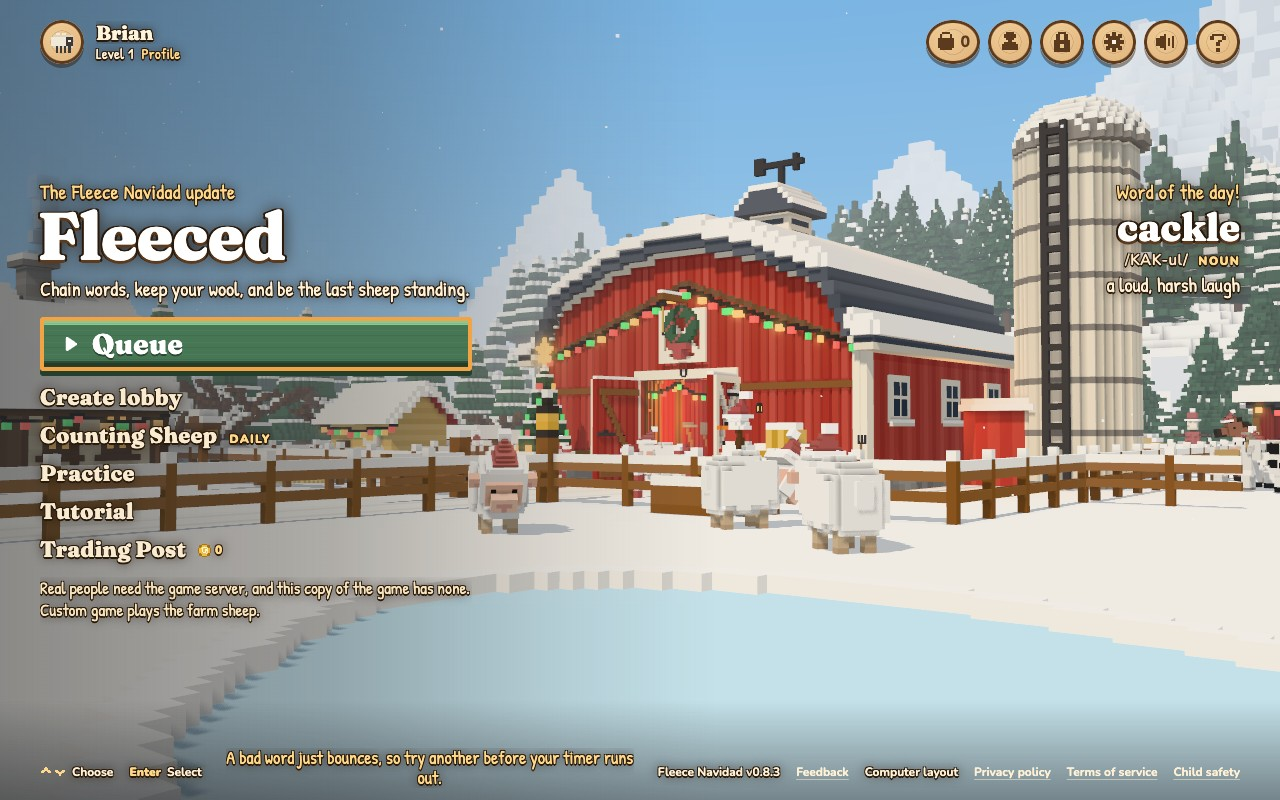
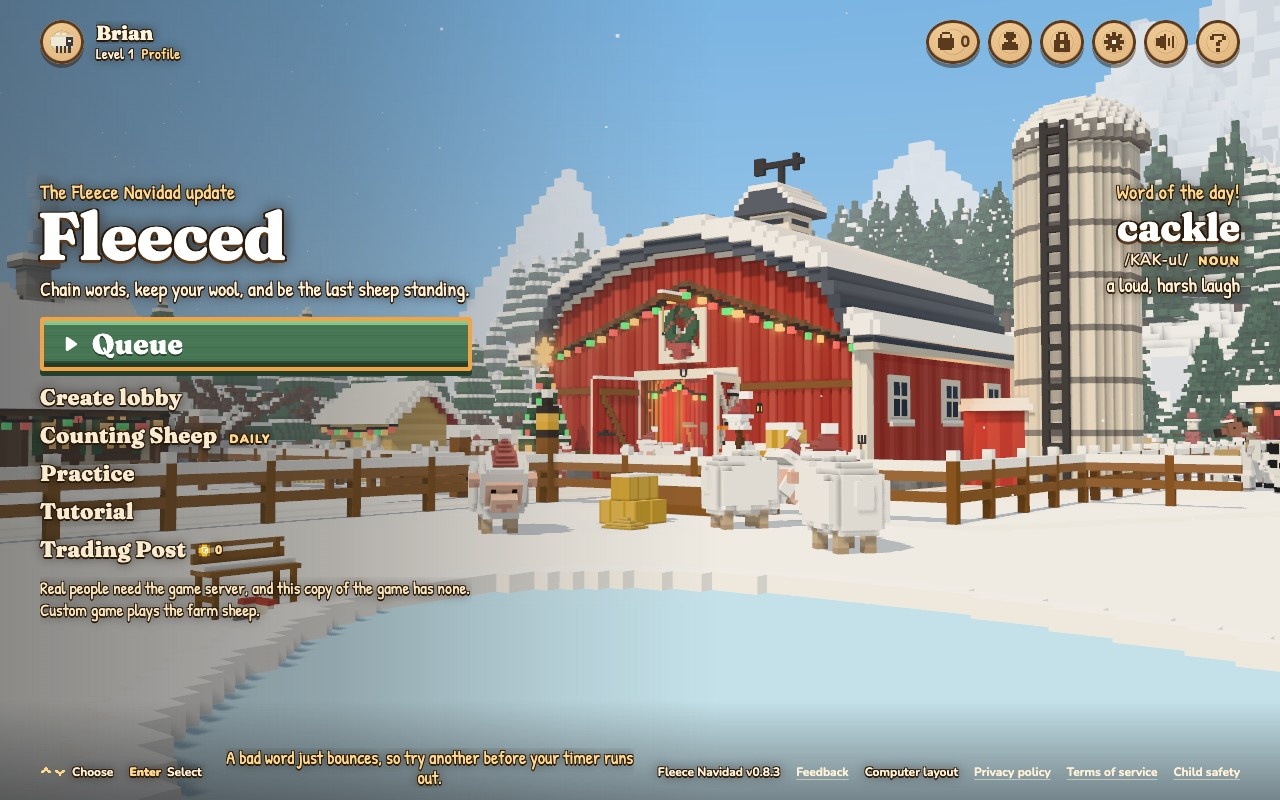
Miniature M5: the pond, porch and flock clusters, and the east track
All eight micro clusters stand (17,718 triangles). The east track runs from the
paddock's gate round the court's corner to the pasture's trough: the plan's line
crossed the court's fence of 0.8.3. Where each object moved and why:
docs/miniature/review/M5-yard.md.

Not done: the plan's recolour of the land's trees, scrub and wall in front of the
line. It changes fine.countryside.hash, which the wendigo's frozen pins hold; it
was built, failed the wendigo check, and was undone.

Ten checks: all pass; check 7 after the porch lantern was hung on the post's face.
Wendigo as pinned; nothing new floats; no magenta on shots 1, 7 or phone 5.

Claude-Session: https://claude.ai/code/session_011o9Mj2AM167Xh2M6L4JoHP

diff --git a/src/skin/scene/farmMicro.ts b/src/skin/scene/farmMicro.ts
@@ -103,6 +103,35 @@ export const MICRO_PLACEMENTS: Placement[] = [
     ['strapHinge', -1.20, 0.85, 15.05, 3],
     ['latch', -1.20, 0.90, 17.75, 3],
   ]),
+  // `pondSide` (M5): the bench and the skates on the pond's west bank. The pond stands 8 m east and 5 m south of where
+  // it was and is wider; moved with it the bench stood on the ice, so it stands 1.6 m further west, on the bank.
+  ...cluster('pondSide', [
+    ['bench', 10.50, GROUND, 28.60, 1, { snow: true }],
+    ['skates', 11.00, GROUND, 29.20],
+  ]),
+  // `porch` (M5): the farmhouse, whose front has faced east under a porch since 0.8.3, with four windows. A pair of
+  // shutters a window (eight), as tall as the frames (1.8 m), their backs on the wall (x -15.0); the knob where the
+  // door's 0.2 m cube was; the lantern on the porch post north of the steps (every strip of wall by the door holds a
+  // shutter); the crate of carrots in the porch's north corner. There has been no woodpile since 0.8.3: the chopping
+  // block and the split logs stand before the woodshed on the kitchen end, and the broom leans by the kitchen door
+  // (no strip of the front wall is as wide as a broom).
+  ...cluster('porch', [
+    ...[17.4, 19.2, 22.2, 24.0].flatMap((z): Row[] => [['shutter', -15.00, 1.00, z - 0.30, 3, { h: 36 }], ['shutter', -15.00, 1.00, z + 1.00, 3, { h: 36 }]]),
+    ['knob', -15.00, 1.45, 21.45, 3],
+    ['wallLantern', -13.40, 2.00, 19.80, 3],
+    ['crateOpen', -14.80, 0.40, 17.05, 0, { contents: 'carrots' }],
+    ['choppingBlock', -20.40, GROUND, 14.20],
+    ['splitLogs', -19.70, GROUND, 14.20],
+    ['broom', -17.85, GROUND, 16.30, 2],
+  ]),
+  // `flockSpot` (M5): the flock's bales and hay, moved with the three loose sheep (+33, -1), who stand in the pasture
+  // by the trough now.
+  ...cluster('flockSpot', [
+    ['squareBale', 6.70, GROUND, 18.20],
+    ['squareBale', 6.70, GROUND, 18.70],
+    ['squareBale', 6.95, 0.45, 18.20, 1, { snow: true }],
+    ['hayHeap', 7.40, GROUND, 19.40],
+  ]),
 ];
 
 // ---- the rules a place must keep (docs/miniature/05, sections 1.3 and 7)

diff --git a/src/skin/scene/yard.ts b/src/skin/scene/yard.ts
@@ -41,9 +41,14 @@ const HALF = YARD.path.halfWidth, FENCE = YARD.fence, HOME = YARD.farmhouse;
 const PORCH_X = HOME.x + HOME.halfX + HOME.porch, LANE_FADE = 39;
 /**
  * Footpaths, each worn straight from one door to the next ([x0, z0, x1, z1]): the porch steps to the court's gate, the
- * barn's doors to the hens' gate.
+ * barn's doors to the hens' gate, and (the plan's east track, docs/miniature/05, section 3) the animals' own way from
+ * the paddock's gate round the court's corner post to the pasture's trough. The plan ran that track from the lane
+ * across the court; since 0.8.3 the court's fence stands across that line (x 12), so it keeps to the pasture's side.
  */
-const WALKS = [[PORCH_X + 0.5, HOME.z, -HALF, FENCE.z + 2.4], [-HALF, 10.6, FENCE.minX, 10.6]] as const;
+const WALKS = [
+  [PORCH_X + 0.5, HOME.z, -HALF, FENCE.z + 2.4], [-HALF, 10.6, FENCE.minX, 10.6],
+  [16.8, 7.5, FENCE.maxX + 0.9, FENCE.z + 0.7], [FENCE.maxX + 0.9, FENCE.z + 0.7, 8.6, FENCE.z + 1.0],
+] as const;
 export const onWalk = (x: number, z: number) => WALKS.some(([x0, z0, x1, z1]) => {
   const dx = x1 - x0, dz = z1 - z0, t = Math.min(1, Math.max(0, ((x - x0) * dx + (z - z0) * dz) / (dx * dx + dz * dz)));
   return Math.hypot(x - x0 - dx * t, z - z0 - dz * t) < 0.45;

diff --git a/docs/miniature/review/M5-yard.md b/docs/miniature/review/M5-yard.md
@@ -1,0 +1,50 @@
+# M5: the yard's last clusters, the east track, and the country in front of the line
+
+Branch `miniature/m5-yard`, on top of M4 (`1219735`). Plan file 05, sections 3, 8.6 to 8.8 and 9. All eight clusters
+now stand: 17,718 triangles in the whole layer (budget 120,000), built in 117 ms.
+
+## The tracks (section 3)
+
+| Plan | Built | Why |
+|---|---|---|
+| West track, lane to the hens' gate | Nothing new | 0.8.3 already wears a footpath from the doors' apron to the hens' gate (z 10.6) |
+| East track: from the lane at z 11.8 to 12.6 east to x 17.2, then north to the paddock's gate | From the paddock's gate (16.8, 7.5) round the court's corner post to the pasture's trough (8.6, 16.0), on the pasture's side of the fence | Since 0.8.3 the court's fence runs along x 12 from z 7.2 to 15: the plan's line goes through it. This is the animals' own way to water, and gives the wide shot the same line between the paddock and the pasture |
+| Hoof dents on both | None | Brian, 2026-11-19: square holes in the ground read as a fault; 0.8.3 has none on the lane either |
+
+Built as two more entries of `WALKS` in `scene/yard.ts` (packed snow, `snow` −1, flat). Nothing of it lies in the paddock.
+
+## The clusters
+
+| Cluster | Plan | Built | Why |
+|---|---|---|---|
+| `pondSide` | Bench (4.10, 23.50) and skates on the west bank; chopping block and logs south of the woodpile | Bench (10.50, 28.60) with its back to the west, skates (11.00, 29.20) | The pond stands 8 m east and 5 m south and is wider; moved with it the bench stood on the ice, so it is 1.6 m further west, on the bank. The block and logs went to `porch` (below): they are 35 m from the pond now, and a cluster is drawn by its middle |
+| `porch` | Four shutters 1.2 m tall, knob, lantern beside the door, broom and crate on the porch floor, on a front facing north | Eight shutters 1.8 m tall (a pair at each of the four front windows, as tall as their frames) on the east front; the knob where the door's cube was; the lantern on the porch post north of the steps; the crate of carrots in the porch's north corner; the chopping block and split logs before the woodshed; the broom by the kitchen door | The farmhouse was rebuilt in 0.8.3. Every strip of wall beside the door holds a shutter, and none of the front wall's free strips is as wide as a broom. There is no woodpile: the logs are under the woodshed on the kitchen end |
+| `flockSpot` | By the sheep at (−24, 19) | Moved with the three sheep (+33, −1): bales at (6.70, 18.20), heap at (7.40, 19.40) | They graze in the pasture by the trough now |
+
+One place was fixed by the floating check: the porch lantern's arm started 0.2 m east of the post's face.
+
+## The country in front of the line (section 9): not done
+
+The plan recolours the land's pines, bushes, rocks and stone wall in front of z = −16 without changing a cube. Built
+and undone: `check.ts --only wendigo` failed with `fine.countryside.hash` changed. The wendigo's pins hash the
+countryside's colours as well as its cubes, and the pins are frozen. So the land outside the farmstead keeps its paint
+of 0.8.3 (flat colours already; the diorama's tiered pines). This needs Brian: either the countryside stays as it is,
+or he says the pins may be recorded again for a colour-only change, as he did on 2026-11-19.
+
+`countryside.ts` has two lines from M3 that only read its cubes for the ground's shade map; the check passes with them.
+
+## Checks and numbers
+
+- `npx tsc -b` clean; `npm test` 1,851 passed, 86 skipped; build passes; `npm run size` 2.95 kB of headroom.
+- `check.ts --only connect,wendigo`: both PASS; pins 408,004; 80,760; 89,907 / 78,779; rays 134, 136, 137.
+- Magenta pixels with `?wendigoDebug`: computer 1 and 7 and phone 5: 0. Paddock shot 573 (565 on M1; JPEG).
+- High, computer, against the start: shot 0 1,432,386 to 1,148,447 triangles, 239 to 245 draws; shot 1 2,206,282 to
+  1,710,682, 454 to 457; shot 5 1,071,278 to 850,476, 161 to 164; shot 7 2,144,078 to 1,683,277, 439 to 447. The
+  paddock shot draws none of the layer. At most 8 more draws on a shot (limit 10).
+
+## The ten checks (`M5-clusters.png`, `pairs/pov5-day.jpg`, `pairs/pov7-day.jpg`)
+
+1 recognisable: pass (bench and skates; shutters; block with its axe; bales and heap). 2 solid colours: pass.
+3 parts apart: pass (shutter battens, bench boards, log ends). 4 two block sizes: pass. 5 crisp: pass. 6 whole caps:
+pass (bench's rear boards, the top bale). 7 nothing floats or passes through: pass after the lantern's move. 8 sizes:
+pass. 9 shadows clean: pass. 10 ladder colours: pass.
